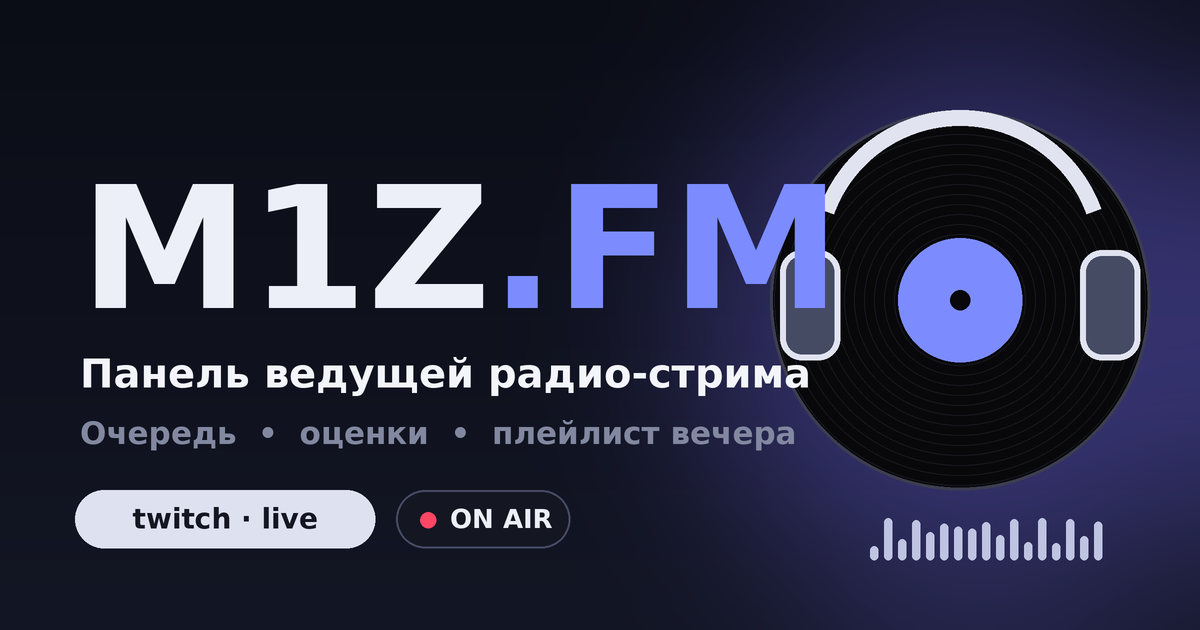
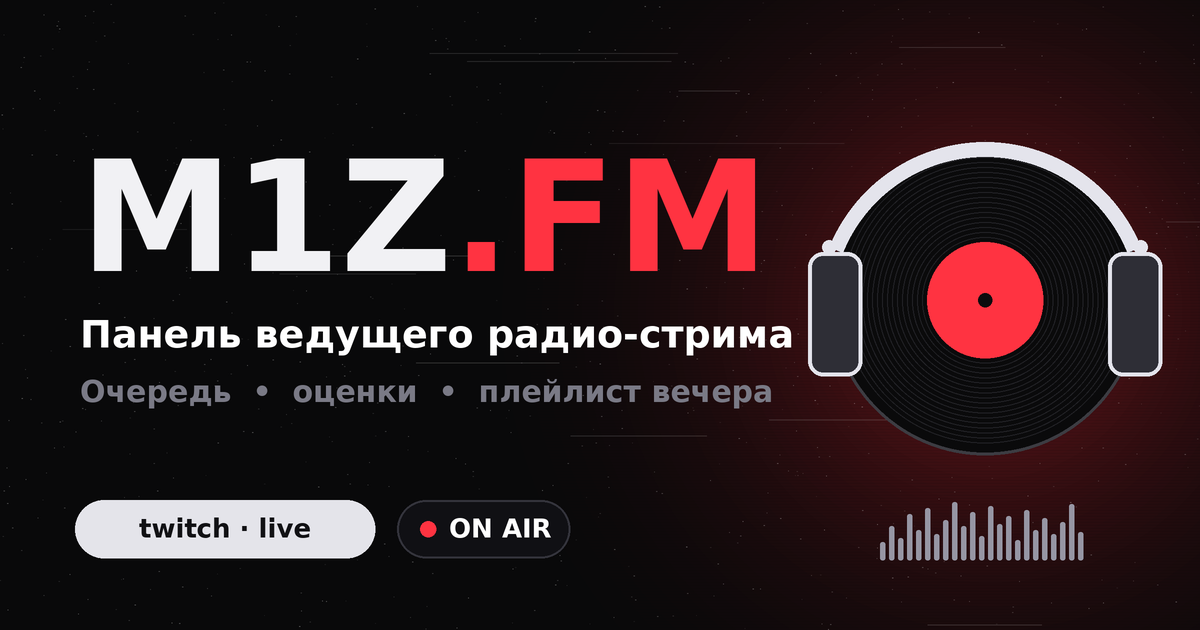
Add files via upload

diff --git a/overlay.html b/overlay.html
@@ -111,7 +111,7 @@ body.green{background:#00ff00}
 .vote.show{opacity:1}.vote b{color:var(--ac2)}
 .flash{position:absolute;inset:0;background:radial-gradient(circle,#fff,var(--ac) 40%,transparent 75%);opacity:0;pointer-events:none;z-index:8}
 .flash.go{animation:fl 1s ease-out}@keyframes fl{0%{opacity:.85}100%{opacity:0}}
-.ham{position:absolute;top:-80px;font-size:56px;font-style:normal;animation:fall linear forwards;z-index:9}
+.rn{position:absolute;top:-80px;font-size:56px;font-style:normal;animation:fall linear forwards;z-index:9}
 .skull{position:absolute;left:50%;top:40%;font-size:300px;z-index:9;transform:translate(-50%,-50%) scale(0);animation:sk 2.4s ease-out forwards}
 @keyframes sk{15%{transform:translate(-50%,-50%) scale(1.1) rotate(-8deg)}30%{transform:translate(-50%,-50%) scale(1) rotate(6deg)}80%{opacity:1}100%{transform:translate(-50%,-30%) scale(1);opacity:0}}
 .tick{position:absolute;left:0;right:0;bottom:0;height:54px;display:none;align-items:center;overflow:hidden;z-index:6;background:var(--card);border-top:2px solid color-mix(in srgb,var(--ac) 55%,transparent)}
@@ -164,7 +164,7 @@ if(CLIP){STG.classList.add("hasclip");$("card").classList.add("nc");const w=pars
 function fit(){const k=Math.min(innerWidth/1920,innerHeight/1080);STG.style.transform="scale("+k+")";STG.style.left=(innerWidth-1920*k)/2+"px";STG.style.top=(innerHeight-1080*k)/2+"px"}
 addEventListener("resize",fit);fit();
 /* чат: ?chat=0 — скрыть; ?chatt=30 — сколько секунд живёт сообщение */
-const CHAT_URL="https://chat.eblo.id/chat/overlay/?channel=h_mst_r&font=2&shadow=1&nick_name=display&nick_cut=off&smooth=10&fade=20&max_lines=10&paint_shadows=false&plus_paint_shadows=false&chatterino_badges=true&ffz_badges=true&homies_badges=true&effects=false&link_urls=hide&gif_size=small&events=announcement%2Csub%2Cgift%2Craid%2Ccheer&collapse_spam=true&sv=3";
+const CHAT_URL="https://chat.eblo.id/chat/overlay/?channel=m1z_qq&font=2&shadow=1&nick_name=display&nick_cut=off&smooth=10&fade=20&max_lines=10&paint_shadows=false&plus_paint_shadows=false&chatterino_badges=true&ffz_badges=true&homies_badges=true&effects=false&link_urls=hide&gif_size=small&events=announcement%2Csub%2Cgift%2Craid%2Ccheer&collapse_spam=true&sv=3";
 /* ?chat=0 — без чата; ?chat=own — встроенный простой чат (через панель); иначе — внешний чат chat.eblo.id в рамке.
    ?chath=560 — высота рамки чата, ?chaty=0 — сдвиг сверху в px (можно отрицательный); ?chan=имя — другой канал; ?chaturl=… — свой адрес чата целиком */
 const CM=P.get("chat"),XCHAT=CM!=="0"&&CM!=="own"&&!!(P.get("chan")||P.get("chaturl"));
@@ -287,7 +287,7 @@ function extra(S,c,r,th,name){
 setInterval(()=>{if(!SC.on)return;$("snt").textContent=SC.end?fmt(Math.max(0,Math.ceil((SC.end-Date.now())/1000))):(SC.kind==="soon"?"…":"☕")},250);
 function fitTitle(){const e=$("ttl");let fs=CLIP?26:36;e.style.fontSize=fs+"px";while(fs>13&&e.scrollHeight>fs*1.15*2+2){fs--;e.style.fontSize=fs+"px"}}
 function flash(){const f=$("fl");f.classList.remove("go");void f.offsetWidth;f.classList.add("go")}
-function rain(){for(let i=0;i<26;i++){const d=document.createElement("i");d.className="ham";d.textContent=i%5?"🐹":"⭐";d.style.left=Math.random()*96+"%";d.style.animationDuration=(2.6+Math.random()*2.2)+"s";d.style.animationDelay=Math.random()*1.2+"s";STG.appendChild(d);setTimeout(()=>d.remove(),7000)}}
+function rain(){for(let i=0;i<26;i++){const d=document.createElement("i");d.className="rn";d.textContent=i%5?"🎵":"⭐";d.style.left=Math.random()*96+"%";d.style.animationDuration=(2.6+Math.random()*2.2)+"s";d.style.animationDelay=Math.random()*1.2+"s";STG.appendChild(d);setTimeout(()=>d.remove(),7000)}}
 function skull(){const d=document.createElement("div");d.className="skull";d.textContent="💀";STG.appendChild(d);setTimeout(()=>d.remove(),2600)}
 addEventListener("storage",upd);
 setInterval(upd,1000);upd();rJoin();

diff --git a/HANDOFF_PROMPT_M1Z.md b/HANDOFF_PROMPT_M1Z.md
@@ -1,18 +1,18 @@
 # Промт для переноса проекта M1Z.FM в другой чат / другую ИИ
 
-Скопируй всё ниже и вставь в новый чат. Приложи `index-m1z.html`, `overlay-m1z.html`, `sfx.js`.
+Скопируй всё ниже и вставь в новый чат. Приложи `index-m1z.html`, `overlay.html`, `sfx.js`.
 
 ---
 
 Ты помогаешь мне развивать сайт **M1Z.FM**. Отвечай по-русски, коротко и по делу.
 
 ## Контекст
-Моя подруга проводит радио-стримы на **Twitch**: зрители присылают в чат ссылку (YouTube, Spotify и др.) или название трека, она слушает, ставит оценку и иногда добавляет трек в плейлист. Сайт нужен, чтобы ей было удобно это делать.
+Ведущий (ник M1Z) проводит радио-стримы на **Twitch** (канал `m1z_qq`): зрители присылают в чат ссылку (YouTube, Spotify и др.) или название трека, он слушает, ставит оценку и иногда добавляет трек в плейлист. Сайт нужен, чтобы ему было удобно это делать. Везде пишем «ведущий / ведущего» (мужской род), не «ведущая».
 
 ## Файлы и хостинг
-- Сайт: https://m1zfm.vercel.app/ (GitHub → Vercel). Чистый HTML/CSS/JS, без сборки, без сервера. Файлы деплоятся как `index.html` панели (в репозитории может называться `index-m1z.html`) и `overlay-m1z.html`.
-- `sfx.js` — синтез звуков, общий с HMSTR; ключ настроек берёт из `window.SFX_KEY="m1z_cfg"`. Баннера `og.png` и og-мета-тегов в этой версии нет.
-- M1Z.FM — отдельная копия панели HMSTR.FM для другого канала. Этот промт только про M1Z.FM.
+- Сайт: https://m1zfm.vercel.app/ (GitHub → Vercel). Чистый HTML/CSS/JS, без сборки, без сервера. Файлы деплоятся как `index.html` панели (в репозитории может называться `index-m1z.html`) и `overlay.html`.
+- `sfx.js` — синтез звуков; ключ настроек берёт из `window.SFX_KEY="m1z_cfg"`. Есть баннер `og.png` (1200×630, красно-чёрный, как тема M1z) и og-мета-теги в `index.html` (`m1zfm.vercel.app`, `og.png?v=2` (при смене баннера увеличивать `v`)).
+- Этот промт только про M1Z.FM. Прежнее название проекта (HMSTR) нигде не должно встречаться.
 
 ## Что умеет панель (сверено с кодом)
 - **Очередь:** заявка вручную или из чата Twitch → очередь (▶ играть сейчас, ✕), нумерация, VIP, перетаскивание, дедупликация по нормализованной ссылке, лимит длины трека (`cfg.maxmin`, проверка для YouTube).
@@ -20,8 +20,9 @@
 - **Оценка:** 1–10 с подписью, эффекты на 9–10, 💀 и звук `SFX.fail` на 1, заметка, теги (Качает, Скучный, Весёлый, Не очень, 50/50), быстрые комментарии (Добавлен в плейлист, Прикольный, Мимо), «В плейлист» / «Пропустить» / «Следующий».
 - **Чат Twitch (бот):** анонимный `wss://irc-ws.chat.twitch.tv` (`justinfan…`, только чтение). Команды по умолчанию `!заказ, !sr, !order`; лимит заявок на зрителя, пауза между заявками, чёрный список ников и слов, очередь «На проверке» (`S.pending`). Голосование чата `!1…!10` (`votes`, `vn`, `vavg`). Принимает ссылку вместо ника канала (`chanName`). Работает, пока панель открыта.
 - **Эфир:** ON AIR, слепое прослушивание (B), таймер трека, ☕ «Перерыв» (K) и ⏳ «Скоро начнём» (L): `brk={on,until,kind}`, дублируется в `m1z_brk`. Компактный режим, статистика эфира (средняя, график, гистограмма).
-- **Итоги:** хит-парад вечера с фильтром по тегам, «кураторы вечера» (8+), «Лучшее за 30 дней / за всё время» из архива `m1z_arch`, PNG для сторис 1080×1920 (стили по темам, фото ведущей в `m1z_photo`), экспорт плейлиста (список, CSV, ссылки, поиск в Яндекс Музыке/Spotify, «▶ Плейлист на YouTube» через `watch_videos?video_ids=`, до 50).
-- **Темы:** 10 тем с анимированными фонами (hamster, neon, space, lagoon, sakura, matrix, retro, volcano, platinum, stage), светлая/тёмная/авто (`cfg.mode`, клавиша D), переключатели анимаций.
+- **Итоги:** хит-парад вечера с фильтром по тегам, «кураторы вечера» (8+), «Лучшее за 30 дней / за всё время» из архива `m1z_arch`, PNG для сторис 1080×1920 (стили по темам, фото ведущего в `m1z_photo`), экспорт плейлиста (список, CSV, ссылки, поиск в Яндекс Музыке/Spotify, «▶ Плейлист на YouTube» через `watch_videos?video_ids=`, до 50).
+- **Лёгкий режим** (Настройки, `cfg.lite`, `data-lite=on`): выключает canvas-фоны (ухмылка, VHS), размытия `backdrop-filter`, `.ambient` и анимации фона — на случай лагов (особенно на Mac).
+- **Темы:** 10 тем с анимированными фонами (m1z, neon, space, lagoon, sakura, matrix, retro, volcano, platinum, stage), светлая/тёмная/авто (`cfg.mode`, клавиша D), переключатели анимаций.
 - **Плейлист:** копирование «Исполнитель – Название» с очисткой «Official Video / Lyrics / HD…» (`cleanTitle`, `plName`), опция «ссылки».
 - **Звуки** (`sfx.js`): джингл, аплодисменты на 9, эйрхорн на 10, фейл на 1. Играют в панели или в оверлее (`cfg.snd`), громкость `cfg.sndVol`.
 - **Данные:** `localStorage`-ключи: `m1z_fm_v1` (состояние `S`), `m1z_cfg`, `m1z_theme`, `m1z_vol`, `m1z_arch`, `m1z_brk`, `m1z_photo`. Экспорт/импорт JSON (`{S,cfg,arch}`, без `ytKey`).
@@ -31,10 +32,10 @@
 
 ### Кнопки очистки (важно, не путать)
 - **🗑 Новый эфир** (Настройки → Данные): сохраняет оценённые треки в архив, потом чистит очередь/историю. Это нормальное завершение вечера.
-- **🧨 Очистить всё** (v12; Настройки → Данные и в окне «За 30 дней / За всё время»): с подтверждением стирает очередь, «На проверке», историю, текущий трек **и архив** `m1z_arch`, сбрасывает голоса и заставку. Настройки, тема и фото ведущей остаются. Нужна, чтобы убрать тестовые треки из итогов «за 30 дней / за всё время». Функция `clearAll()`.
+- **🧨 Очистить всё** (v12; Настройки → Данные и в окне «За 30 дней / За всё время»): с подтверждением стирает очередь, «На проверке», историю, текущий трек **и архив** `m1z_arch`, сбрасывает голоса и заставку. Настройки, тема и фото ведущего остаются. Нужна, чтобы убрать тестовые треки из итогов «за 30 дней / за всё время». Функция `clearAll()`.
 
-## Оверлей (`overlay-m1z.html`)
-Получает данные от панели по WebRTC (PeerJS, `?room=КОД`, `cfg.room`, пир `m1zfm-<room>`), запасной путь — `localStorage` (`m1z_fm_v1`, `m1z_theme`) через `storage` и опрос раз в секунду. Чат в оверлее показывается только с `?chan=канал`. Параметры: `?bg=green`, `?q=0` (скрыть очередь), `?logo=0`, `?scene=0` (без сцен). Показывает: выезд карточки, вращающийся винил, эквалайзер, штамп оценки с кольцом, пульсацию и конфетти на 9–10, дождь 🐹 на 10, 💀 на 1, чат-оценку в нижней строке карточки, список «Далее в эфире», сцены «Перерыв»/«Скоро начнём» с таймером. Оверлей целиком берёт тему панели. Название и исполнитель сжимаются до 2 строк. Убраны: аура из обложки, визуализатор, прогресс-бар, тикер оценок.
+## Оверлей (`overlay.html`)
+Получает данные от панели по WebRTC (PeerJS, `?room=КОД`, `cfg.room`, пир `m1zfm-<room>`), запасной путь — `localStorage` (`m1z_fm_v1`, `m1z_theme`) через `storage` и опрос раз в секунду. Чат в оверлее показывается только с `?chan=канал`; ссылки из панели передают `?chan=` из настроек (по умолчанию `m1z_qq`), `?chat=0` скрывает чат. Параметры: `?bg=green`, `?q=0` (скрыть очередь), `?logo=0`, `?scene=0` (без сцен). Показывает: выезд карточки, вращающийся винил, эквалайзер, штамп оценки с кольцом, пульсацию и конфетти на 9–10, дождь 🎵 на 10, 💀 на 1, чат-оценку в нижней строке карточки, список «Далее в эфире», сцены «Перерыв»/«Скоро начнём» с таймером. Оверлей целиком берёт тему панели. Название и исполнитель сжимаются до 2 строк. Убраны: аура из обложки, визуализатор, прогресс-бар, тикер оценок.
 
 pubState (панель → оверлей): `t,pos,play,theme,blind,dur,vote,brk{rem,kind},ev{cnt,avg},hist,snd,sndVol,current{…,t0},queue`.
 
@@ -42,7 +43,7 @@ pubState (панель → оверлей): `t,pos,play,theme,blind,dur,vote,brk
 N следующий · Пробел пауза · 1–9, 0 оценка (0 = 10) · P плейлист · S пропуск · O открыть · ↑/↓ громкость · M звук · B слепой режим · T тема · D светлая/тёмная · K перерыв · L «скоро начнём».
 
 ## Ограничения
-- В OBS: панель как Custom Browser Dock + оверлей как Browser Source (не проверено на практике). Запасной вариант: `overlay-m1z.html?bg=green` в окне браузера + Window Capture + Chroma Key.
+- В OBS: панель как Custom Browser Dock + оверлей как Browser Source (не проверено на практике). Запасной вариант: `overlay.html?bg=green` в окне браузера + Window Capture + Chroma Key.
 - Бот читает чат, но не отвечает (нужен OAuth-токен и сервер). Работает только при открытой панели.
 - Громкостью Spotify/SoundCloud из страницы управлять нельзя.
 - Очередь и архив локальные (один браузер). Заявки с сайта от зрителей возможны только с сервером. Решено не делать публичную страницу для зрителей.
@@ -61,14 +62,14 @@ N следующий · Пробел пауза · 1–9, 0 оценка (0 = 10
 - Сначала коротко предложи решение, потом давай готовый код целыми файлами.
 - Не ломай существующие горячие клавиши и формат данных без предупреждения.
 - Если что-то нельзя сделать без сервера или ключей, скажи прямо.
-- Эта версия получается из основной HMSTR.FM заменой `HMSTR→M1Z`, `hmstr→m1z` (ключи `m1z_*`, комната `m1zfm-`, ссылки на `overlay-m1z.html`) без og-мета-тегов. Правки сначала вносятся в HMSTR, потом переносятся сюда; если я прошу правку только для M1Z, делай её только здесь.
+- Если я прошу правку только для M1Z, делай её только здесь. Ссылки на оверлей в панели ведут на `/overlay.html`; ключи `m1z_*`, комната `m1zfm-`.
 
 Мой следующий запрос: _[впиши сюда]_
 
 ---
 
 ## Журнал изменений
-1. Панель ведущей (очередь, оценки, плейлист, история).
+1. Панель ведущего (очередь, оценки, плейлист, история).
 2. Исправлена блокировка плеера, автономный `index.html` для GitHub/Vercel.
 3. Баннер `og.png`, мета-теги превью.
 4. Название M1Z.FM, темы с анимированными фонами, громкость, YouTube IFrame API, статистика, горячие клавиши.
@@ -79,4 +80,7 @@ N следующий · Пробел пауза · 1–9, 0 оценка (0 = 10
 9. v9: сцены, статистика эфира, светлые темы, ⏳ «Скоро начнём», автосохранение архива, сторис с кураторами, список ссылок, плейлист YouTube.
 10. Видео без встраивания: кнопки «Обновить плеер» и «Открыть в новой вкладке», обложка через iTunes.
 11. v11: упрощён оверлей (чат-оценка в нижней строке), новые теги и быстрые комментарии.
-12. v12 (общая для обеих версий; в M1Z также исправлены ссылки оверлея `/overlay.html` → `/overlay-m1z.html` в кнопках «Ссылка для Browser Source» и «Окно с зелёным фоном»): кнопка «🧨 Очистить всё» (Настройки → Данные и окно итогов за 30 дней/всё время) стирает данные эфира и архив, настройки остаются.
+12. v12 (общая для обеих версий; в M1Z также исправлены ссылки оверлея `/overlay.html` → `/overlay.html` в кнопках «Ссылка для Browser Source» и «Окно с зелёным фоном»): кнопка «🧨 Очистить всё» (Настройки → Данные и окно итогов за 30 дней/всё время) стирает данные эфира и архив, настройки остаются.
+13. Убраны остатки HMSTR: фавикон 🐹 → винил, дождь 🐹 → 🎵 (класс `.ham` → `.rn`), канал `h_mst_r` в `CHAT_URL` убран (канал задаётся `?chan=`), комментарий и запасной ключ в `sfx.js`, упоминания в этом промте.
+14. Ведущий — мужской род везде; чат по умолчанию канал `m1z_qq` (панель передаёт его в ссылку оверлея); добавлен «Лёгкий режим»; `og.png` перекрашен в красно-чёрный (`?v=2`).
+15. Оверлей в репозитории M1Z называется `overlay.html` (как и в BLDTHRLL), ссылки в панели ведут на `/overlay.html`.
